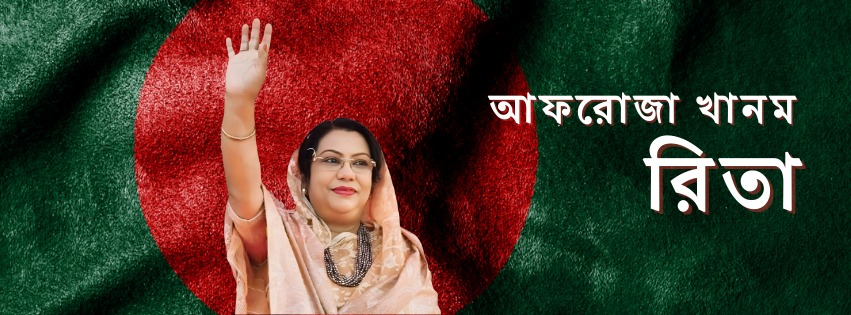
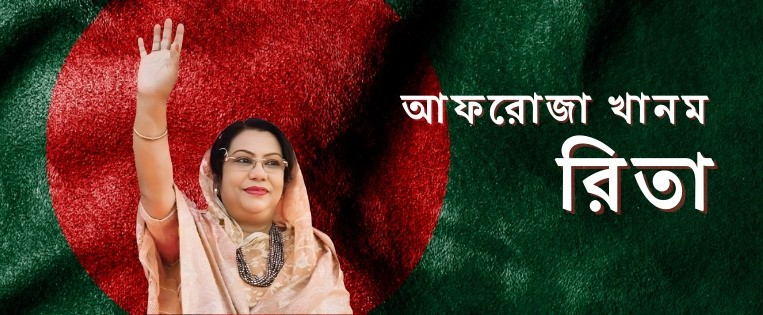
carousel update

diff --git a/src/components/carousel/index.jsx b/src/components/carousel/index.jsx
@@ -144,7 +144,7 @@ export default function HeroSlider() {
                           src={item.image}
                           alt="Hero slider"
                           fill
-                          className="object-cover"
+                          className="object-contain"
                           priority
                           unoptimized
                         />
